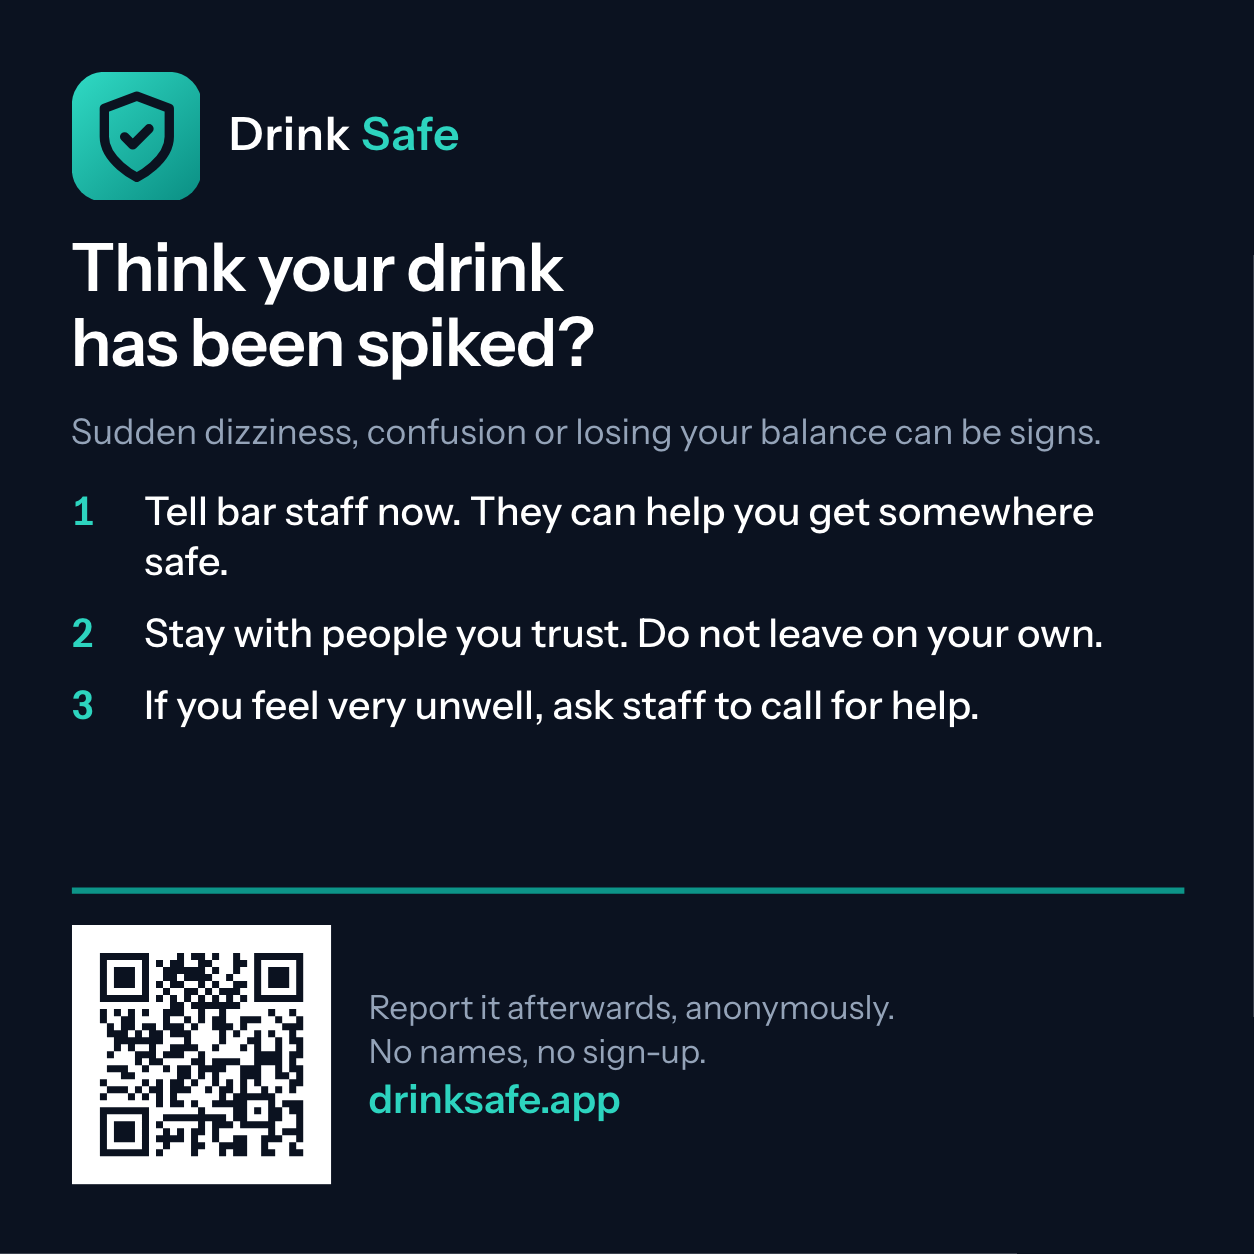
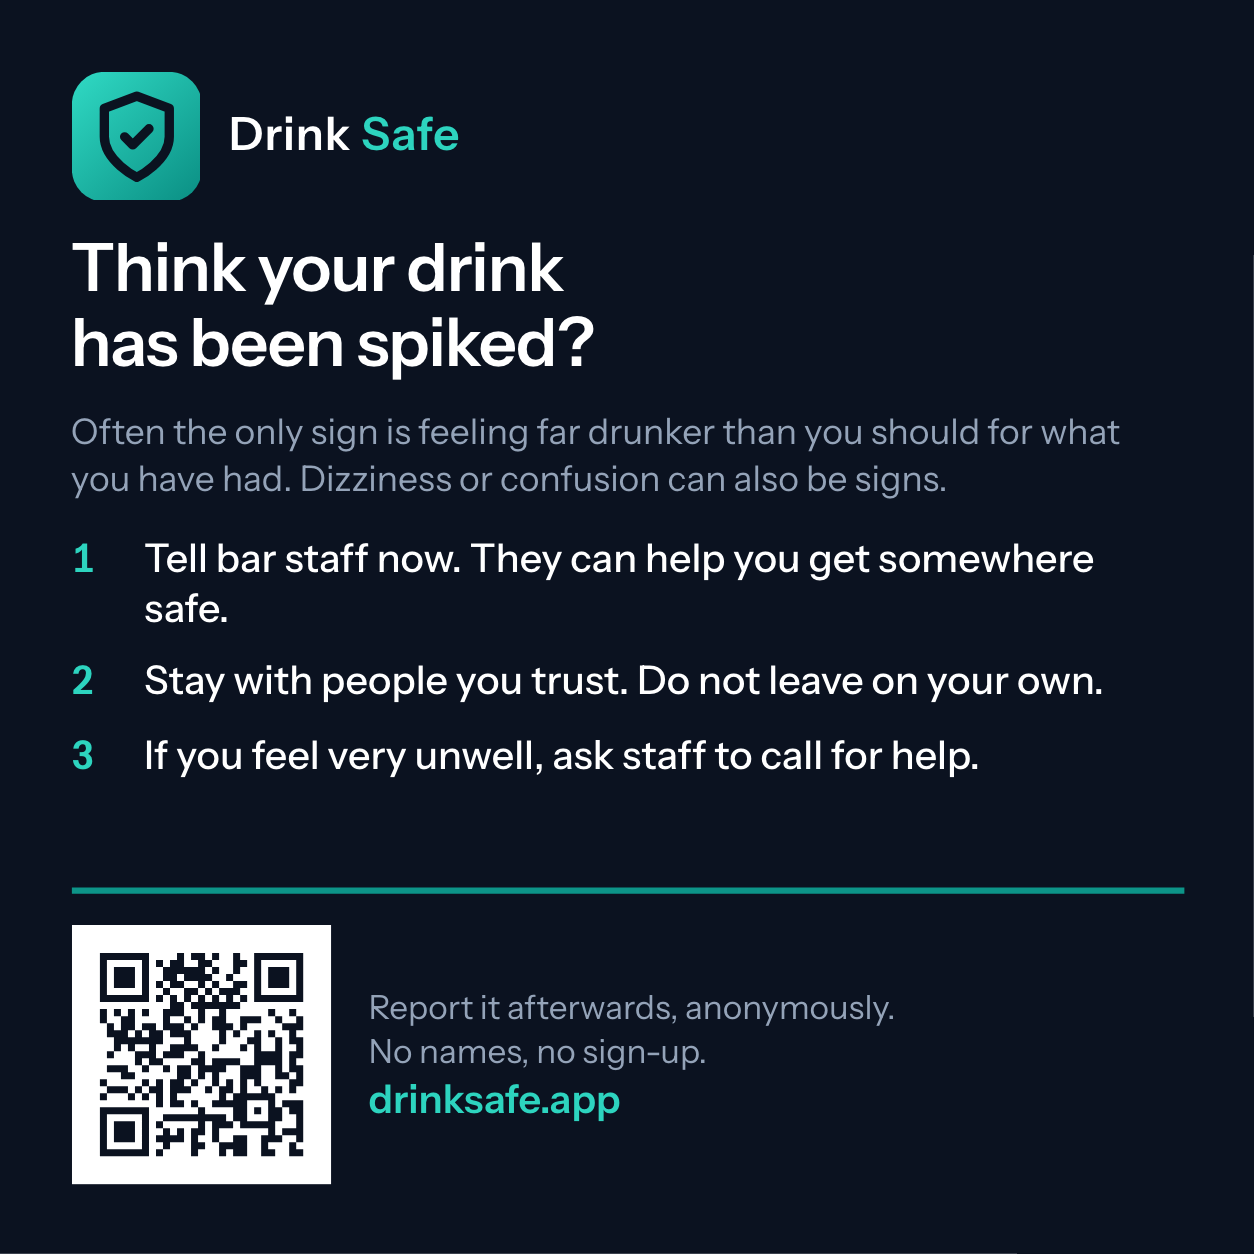
Lead the spiking signs with feeling drunker than expected
Sticker A listed dizziness first. Someone who has been spiked pointed
out that feeling far drunker than the amount drunk accounts for was
their only symptom, and that they were never dizzy. Leading with
dizziness invites a reader to rule themselves out for lacking it.

The line now opens with that sign and keeps dizziness and confusion as
secondary. It still sets on two lines, so no resizing was needed.

Changed region(s): [[0.0621, 0.3105, 0.9005, 0.621]]

diff --git a/print/artwork/sticker-a.html b/print/artwork/sticker-a.html
@@ -45,7 +45,7 @@
 
         <h1>Think your drink<br>has been spiked?</h1>
 
-        <p class="lede">Sudden dizziness, confusion or losing your balance can be signs.</p>
+        <p class="lede">Often the only sign is feeling far drunker than you should for what you have had. Dizziness or confusion can also be signs.</p>
 
         <ol class="steps">
             <li><span class="n">1</span><span>Tell bar staff now. They can help you get somewhere safe.</span></li>

diff --git a/docs/active/print-collateral/print-collateral-design.md b/docs/active/print-collateral/print-collateral-design.md
@@ -51,6 +51,10 @@ Aimed at someone who may be frightened while reading it. Nobody is asked to dial
 themselves; step three asks staff to call, which keeps the emergency route open without
 putting the decision on the reader.
 
+The signs line leads with feeling drunker than the amount drunk accounts for, on the advice
+of someone who has been spiked and had no other symptom at all. Listing dizziness first
+invites the reader to rule themselves out for lacking it.
+
 Navy ground, white text.
 
 ```
@@ -59,8 +63,10 @@ Navy ground, white text.
 Think your drink                      16pt / 600 / white
 has been spiked?
 
-Sudden dizziness, confusion or        8.5pt / 400 / #94A3B8
-losing your balance can be signs.
+Often the only sign is feeling far    8.5pt / 400 / #94A3B8
+drunker than you should for what
+you have had. Dizziness or
+confusion can also be signs.
 
 ①  Tell bar staff now. They can       9.5pt / 500 / white
    help you get somewhere safe.       numerals #2DD4BF
